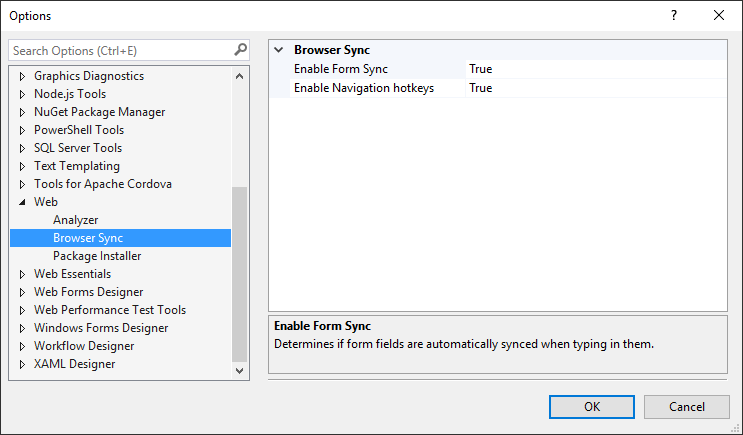
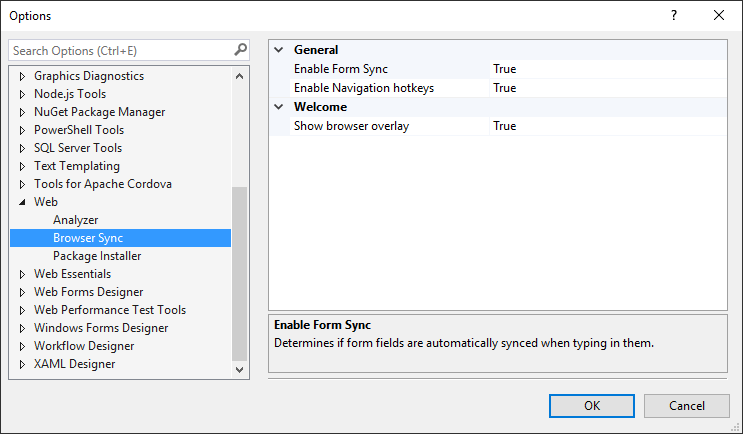
Added browser overlay welcome message

diff --git a/src/BrowserLink/Overlay.js b/src/BrowserLink/Overlay.js
@@ -1,0 +1,109 @@
+/// <reference path="_intellisense/browserlink.intellisense.js" />
+
+(function (browserLink, $) {
+    /// <param name="browserLink" value="bl" />
+    /// <param name="$" value="jQuery" />
+
+    var _id = "__browserSyncOverlay";
+
+    function showOverlay() {
+
+        // Create <div>
+        var overlay = document.createElement("div");
+        overlay.id = _id;
+        overlay.innerHTML =
+            "<h3>" +
[1 lines of base64/hex data omitted]
+                " Browser Sync for Visual Studio" +
+            "</h3>" +
+            "<p>" +
+                "You can now use <strong>CTRL+Alt+Enter</strong> to sync all browsers connected to Visual Studio." +
+                " <a href=\"https://visualstudiogallery.msdn.microsoft.com/5741a548-5179-4a77-ad96-fca71535774d\">Learn more</a>" +
+            "</p>";
+
+        // Create <section>
+        var section = document.createElement("section");
+        section.innerHTML =
+            "<input type=\"checkbox\" id=\"__browserSyncHide\" /> " +
+            "<label for=\"__browserSyncHide\">Don't show this again</label>";
+
+        // Create <button>
+        var button = document.createElement("button");
+        button.innerHTML = "Thanks, got it";
+        button.onclick = function () {
+            var checkbox = document.getElementById("__browserSyncHide");
+            browserLink.invoke("HideOverlay", checkbox.checked);
+            hideOverlay();
+        };
+
+        section.appendChild(button);
+        overlay.appendChild(section);
+
+        // Create <style>
+        var style = document.createElement("style");
+        style.innerHTML =
+        "#" + _id + " {" +
+        "    position: fixed;" +
+        "    top: 50%;" +
+        "    left: 50%;" +
+        "    width: 360px;" +
+        "    margin-left: -180px;" +
+        "    margin-top: -75px;" +
+        "    color: black;" +
+        "    background: white;" +
+        "    z-index: 2147483638;" +
+        "    border: 1px solid #c0c0c0;" +
+        "    border-radius: 5px;" +
+        "    font: 15px/1 arial;" +
+        "    box-shadow: 5px 5px 5px #ccc;" +
+        "}" +
+
+        "#" + _id + " h3 {" +
+        "    padding: 6px 10px;" +
+        "    margin: 0;" +
+        "    background: #ddd;" +
+        "    border-radius: 5px 5px 0 0;" +
+        "    font-size: 18px;" +
+        "}" +
+
+        "#" + _id + " p {" +
+        "    padding: 10px;" +
+        "    margin: 0;" +
+        "    line-height: 1.5;" +
+        "}" +
+
+        "#" + _id + " section {" +
+        "    margin: 10px;" +
+        "}" +
+
+        "#" + _id + " button {" +
+        "    position: absolute;" +
+        "    right: 10px;" +
+        "    bottom: 10px;" +
+        "    padding: 3px 6px;" +
+        "}" +
+
+        "#" + _id + " label {" +
+        "    display: inline;" +
+        "    font-weight: normal;" +
+        "}";
+
+        overlay.appendChild(style);
+
+        // Show it on the page
+        document.body.appendChild(overlay);
+    }
+
+    function hideOverlay() {
+        var overlay = document.getElementById(_id);
+
+        if (overlay) {
+            overlay.parentNode.removeChild(overlay);
+        }
+    }
+
+    return {
+        showOverlay: showOverlay,
+        hideOverlay: hideOverlay
+    };
+});

diff --git a/src/BrowserLink/_intellisense/browserlink.intellisense.js b/src/BrowserLink/_intellisense/browserlink.intellisense.js
@@ -3,7 +3,7 @@
 
 var bl = {
 
-    "call": function () {
+    "invoke": function () {
         /// <signature>
         ///   <summary>Calls a server method defined in the Visual Studio BrowserLink extension.</summary>
         ///   <param name="serverMethodName" type="String">The name of the server method</param>
@@ -15,7 +15,7 @@ var bl = {
         /// </signature>
     },
 
-    "callAsync": function () {
+    "invokeAsync": function () {
         /// <signature>
         ///   <summary>Calls a server method defined in the Visual Studio BrowserLink extension.</summary>
         ///   <param name="serverMethodName" type="String">The name of the server method</param>

diff --git a/src/BrowserLink/Overlay.cs b/src/BrowserLink/Overlay.cs
@@ -1,0 +1,59 @@
+using System.ComponentModel.Composition;
+using System.IO;
+using Microsoft.VisualStudio.Web.BrowserLink;
+
+namespace BrowserSync
+{
+    [Export(typeof(IBrowserLinkExtensionFactory))]
+    public class OverlayFactory : IBrowserLinkExtensionFactory
+    {
+        public BrowserLinkExtension CreateExtensionInstance(BrowserLinkConnection connection)
+        {
+            if (VSPackage.Options.ShowOverlay)
+            {
+                return new OverlayExtension();
+            }
+
+            return null;
+        }
+
+        public string GetScript()
+        {
+            using (Stream stream = GetType().Assembly.GetManifestResourceStream("BrowserSync.BrowserLink.Overlay.js"))
+            using (StreamReader reader = new StreamReader(stream))
+            {
+                return reader.ReadToEnd();
+            }
+        }
+    }
+
+    public class OverlayExtension : BrowserLinkExtension
+    {
+        private static bool _showInCurrentVsSession = true;
+
+        public override void OnConnected(BrowserLinkConnection connection)
+        {
+            if (_showInCurrentVsSession)
+            {
+                Browsers.Client(connection).Invoke("showOverlay");
+                base.OnConnected(connection);
+            }
+        }
+
+        [BrowserLinkCallback] // This method can be called from JavaScript
+        public void HideOverlay(bool dontShowAgain)
+        {
+            if (dontShowAgain)
+            {
+                VSPackage.Options.ShowOverlay = false;
+                VSPackage.Options.SaveSettingsToStorage();
+            }
+            else
+            {
+                _showInCurrentVsSession = false;
+            }
+
+            Browsers.All.Invoke("hideOverlay");
+        }
+    }
+}

diff --git a/src/Options.cs b/src/Options.cs
@@ -5,16 +5,22 @@ namespace BrowserSync
 {
     public class Options : DialogPage
     {
-        [Category("Browser Sync")]
+        [Category("General")]
         [DisplayName("Enable Form Sync")]
         [Description("Determines if form fields are automatically synced when typing in them.")]
         [DefaultValue(true)]
         public bool EnableFormSync { get; set; } = true;
 
-        [Category("Browser Sync")]
+        [Category("General")]
         [DisplayName("Enable Navigation hotkeys")]
         [Description("Determines if the keybord hotkeys (CTRL+ALT+Enter) in the browser should trigger navigational sync.")]
         [DefaultValue(true)]
         public bool EnableNavigationHotkeys { get; set; } = true;
+
+        [Category("Welcome")]
+        [DisplayName("Show browser overlay")]
+        [Description("Shows the overlay in the browsers containing info about the shortcut key.")]
+        [DefaultValue(true)]
+        public bool ShowOverlay { get; set; } = true;
     }
 }
